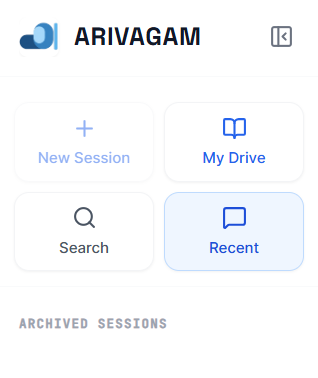
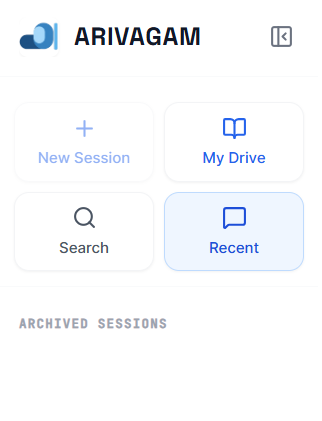
upgrade: readme.md draft-4

diff --git a/README.md b/README.md
@@ -147,8 +147,8 @@ flowchart TD
 > **[🖼 VISUAL WALKTHROUGH: DASHBOARD / UPLOAD FLOW]**
 
 <p align="center">
-  <img src="demo-pics/dashboard.png" width="49%" alt="Dashboard" />
-  <img src="demo-pics/upload.png" width="49%" alt="Upload Flow" />
+  <img src="demo-pics/dashboard.png" width="100%" alt="Dashboard" />
+  <img src="demo-pics/upload.png" width="100%" alt="Upload Flow" />
 </p>
 
 ---
@@ -161,8 +161,8 @@ flowchart TD
 > **[🖼 VISUAL WALKTHROUGH: REGISTRATION & AUTHENTICATION]**
 
 <p align="center">
-  <img src="demo-pics/register.png" width="49%" alt="Registration" />
-  <img src="demo-pics/reg_auth.png" width="49%" alt="Registration Authentication" />
+  <img src="demo-pics/register.png" width="100%" alt="Registration" />
+  <img src="demo-pics/reg_auth.png" width="100%" alt="Registration Authentication" />
 </p>
 
 ---
